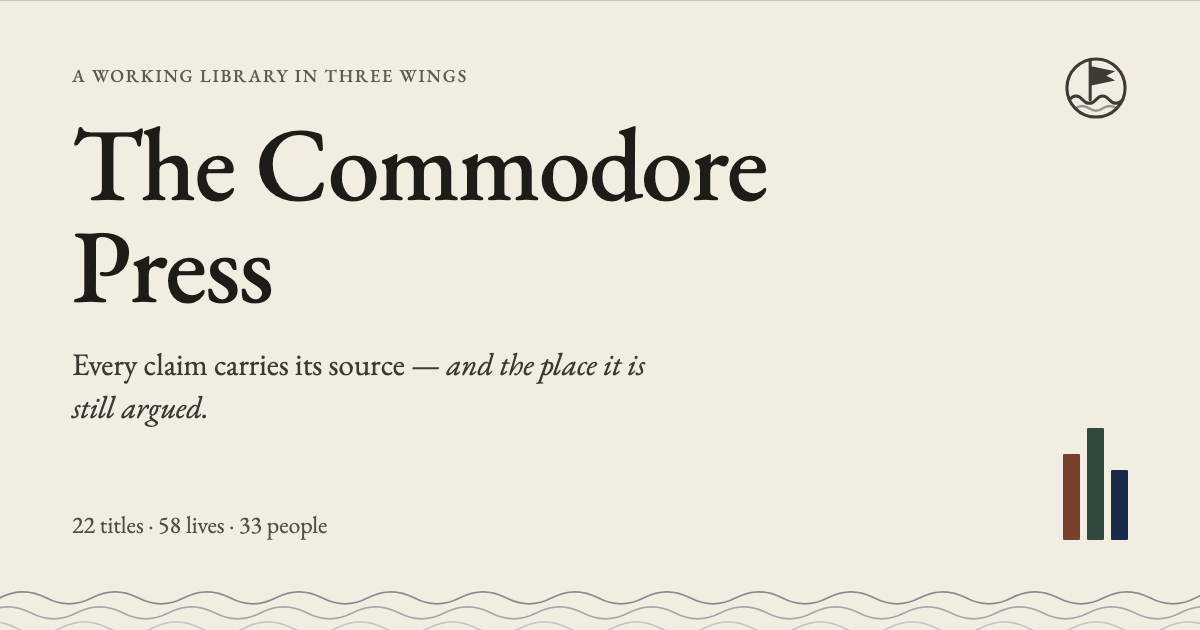
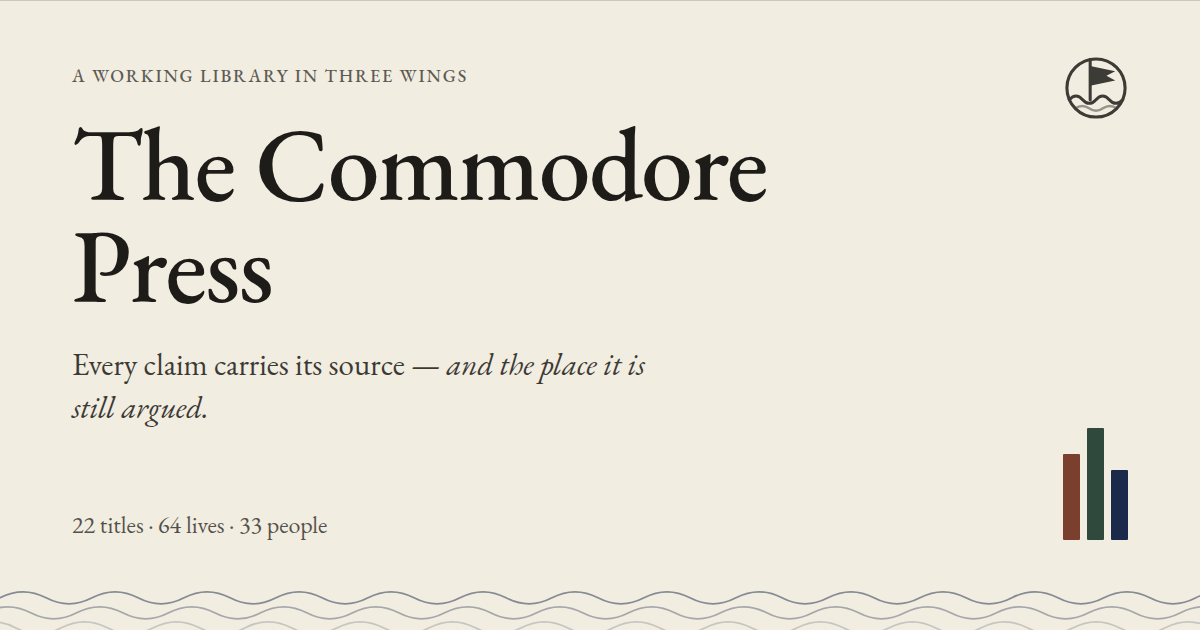
Lyndon B. Johnson written; share cards for the six; Braille's broken characters repaired; queue and leads updated
Johnson: Caro as the spine, his critics named (Broder via the Texas Observer,
Dallek, Baum and Hailey as an unread lead); NARA 518140 plate (PD).
Braille: an earlier byte-wise sed had turned three dashes and an arrow into
replacement characters; restored. Tubman's plate caption no longer repeats
the colophon credit.

Claude-Session: https://claude.ai/code/session_01KSVns8vn1JRFZWyMy1K9m9

diff --git a/dashboard/commissions.md b/dashboard/commissions.md
@@ -27,6 +27,7 @@ in it carries a named source.
 | idea | Lives | Plate licences are recorded for four plates, not twenty-nine | `content/plate-licences.json` now holds the ones carrying an obligation — three CC and the Library of Congress photograph — and the check enforces their colophon credits. The other twenty-five rest on the colophon's blanket sentence that everything else came through Wikimedia Commons, which is a claim about twenty-five separate licence boxes that nobody has re-opened | the plate files themselves, then each image's Commons licence box | record each plate's licence as it is next touched, rather than a twenty-five-file audit nobody will finish |
 | published | All | `npm run ship` pushes any branch straight to main | Closed 2026-09-20 at Luca's request. `ship` now refuses to run unless the branch is `main`, naming the two ways forward — merge it properly, or pass `--allow-branch` and mean it. Tested from a throwaway branch: it refuses and exits 1 without touching the index. While in there the gate was widened: `ship` ran `check` alone, which proves the shape of the content and cannot tell whether a link still opens or whether a note to self is about to print. It now runs check → proofread → links → build, cheapest first. | `tools/ship.mjs` | done — `--skip-links` exists for working offline; EDITING.md and the CLAUDE.md command table updated |
 | idea | Lives | `life.schema.json` forbids two fields the reader renders | `additionalProperties: false` with no `changed` and no `reading`, while `readerHTML()` renders both for any entry that has them. No life uses either today, so nothing is broken — but the field check would reject them with a message that says the site ignores them, which is false. Relevant now that `changed` is proposed for Wing II | `schemas/life.schema.json`, `theme/press.js` readerHTML | add both to the schema when the `changed` decision is made |
+| ready | Lives | Six lives, № 59–64: Harriet Tubman, Louis Braille, Jesse Owens, Frederick Douglass, Chester Carlson, Lyndon B. Johnson | Asked for by Luca 2026-10-09/10: four for inspiration, Carlson as a life like Edwin Land's, Johnson through Caro. Each fixes the popular version from a document. Tubman: her own 1858–59 count was fifty or sixty people in eight or nine trips; Bradford's 1869 'nineteen' and 'three hundred' were 'the reckoning of her friends' and 'the computation of others', and her dictated letter credits Montgomery with the Combahee raid. Braille: the 73 books Dufau burned were Haüy's raised letters (AFB), not braille; the school, not France, adopted it in 1854 (Britannica). Owens: Hitler had stopped congratulating anyone before Owens won; the 100 m final was wind-assisted, not an Olympic record as Britannica says (Olympedia). Douglass: Anna Murray sewed the sailor's uniform and borrowed the papers (NPS), which neither of his accounts says; an 1894 card has him smiling. Carlson: the 'lone inventor' is Xerox's framing; he gave about $100 million, and the $150 million is what he would have earned (Xerox). Johnson: Box 13's added votes are printed three ways; 'lost the South for a generation' has no source from the time. Plates: Tubman LoC (credited), Braille Thiriat 1887, Owens Acme 1936, Douglass Warren c. 1879, Johnson NARA 518140; Carlson plateless, colophon says why. | `dashboard/research-leads.md`, 2026-10-10 | `/press-proofread`, then Luca merges PR #7 |
 | published | Lives | David Ogilvy | Written 2026-09-20. The block was real and persistent — four automated attempts plus every alternate route refused — and it broke the way blocks like this are supposed to: **Luca opened the page in his own browser**, cleared the Cloudflare check himself, and the finding aid rendered in full. The biographical note carried exactly the load-bearing fact the entry needed: **1939–1942, associate director of the Audience Research Institute, Princeton**, three years of survey work before any advertising. Everything in the entry is sourced to that finding aid (LOC MSS35105), including the 30,450 items he gave the Library in 1965 and the Library's own description of the papers as chiefly correspondence, advertising proposals and market research reports. | done — LOC MSS35105, opened and read | worth recording as method: a persistent bot-check is not a dead end, it is a step only the human can take. The entry does not claim the Institute was Gallup's, because the finding aid does not say so |
 | idea | Lives | Sol Price | Commissioned by Luca 2026-09-20 and **not written, for the same reason and more sharply.** The argument is good — the warehouse club is his, FedMart then Price Club, and Walton was unusually open about where he got it — but no openable source was found for any of it on 2026-09-20. The San Diego History Center's search returns navigation only; SEC EDGAR refuses robots; and a Library of Congress search for "Price Club" returns nothing but century-old newspapers from Price, Utah. | San Diego History Center by hand rather than by search; the Price family foundation; a trade-press archive | find one openable document that states the FedMart and Price Club dates, then commission it properly |
 | ready | Lives | Samuel Zemurray, Edwin Land, Aristotle Onassis | Written 2026-09-30 at Luca's request, each with a plate and every figure sourced. Each fixes the popular version from a document: Zemurray's "You're fired!" is Rich Cohen's; Time, six months after the meeting, has the president, not the chairman, and a different line — and the CIA's own history of the 1954 Guatemala coup never names him. Land's 1943 origin story is his own, told in 1965; the record starts with two colleagues' memos of December 1943. Onassis's "$7 million fine" was a civil settlement; six of his corporations were fined $160,000 between them and the charges against him were dropped (Washington Post, 22 December 1955). Two new plate obligations: Zemurray is CC BY 4.0 (UCLA), Land is Library of Congress "no known restrictions"; both credited in the colophon. | `dashboard/research-leads.md`, 2026-09-29/30 | `/press-proofread`, then ship. Onassis's birth year is printed as c. 1904 because Harlaftis has moved it twice (1900 → 1904) and his own account says 1906 |

diff --git a/dashboard/research-leads.md b/dashboard/research-leads.md
@@ -243,3 +243,15 @@ mentions it can be tightened or the figure promoted.
 | Malone | Trawick Ferguson, "The History of Poro College from 1902–1965" (Lindenwood dissertation) | Refused by Cloudflare. Would settle the tax years and amounts, and the 1951 seizure |
 | Malone | *Chicago Defender*, 15 May 1957; Tiffany M. Gill, *Beauty Shop Politics* (2010); Gladys L. Porter (1966) | The $14 million is quoted through Bundles; the Howard gift through Gale |
 
+
+---
+
+## 2026-10-10 — six lives, № 59–64: what was named but not opened
+
+- `harriet-tubman`: the 'never ran my train off the track' line, attributed to an 1896 suffrage meeting; no newspaper of the time found. Not printed.
+- `harriet-tubman`: the Boston Commonwealth issue carrying her 30 June 1863 letter; read only as reprinted in Bradford (1869).
+- `louis-braille`: Edgard Guilbeau, Histoire de l'Institution Nationale des Jeunes Aveugles (1907), p. 72, on what Dufau destroyed; Zina Weygand (2009), p. 289.
+- `jesse-owens`: a primary for the October 1936 'snub' speech (Kansas City; St. Joseph News-Press, 16 October 1936; Time, 'Owens for Landon'). Printed as reported speech only.
+- `frederick-douglass`: the deed of manumission itself (5 or 12 December 1846; LOC Douglass Papers, reel 1); loc.gov timed out from here.
+- `chester-carlson`: the Fortune letter of 1968, said to be in Owen, Copies in Seconds, p. 260; Kornei's 1938 notebook and the Contribution File, NYPL MssCol 472.
+- `lyndon-b-johnson`: Dale Baum and James L. Hailey, 'Lyndon Johnson's Victory in the 1948 Texas Senate Race: A Reappraisal', Political Science Quarterly 109:4 (1994); David Broder's review of Means of Ascent (Washington Post, 1990), known only as the Texas Observer quoted it.
